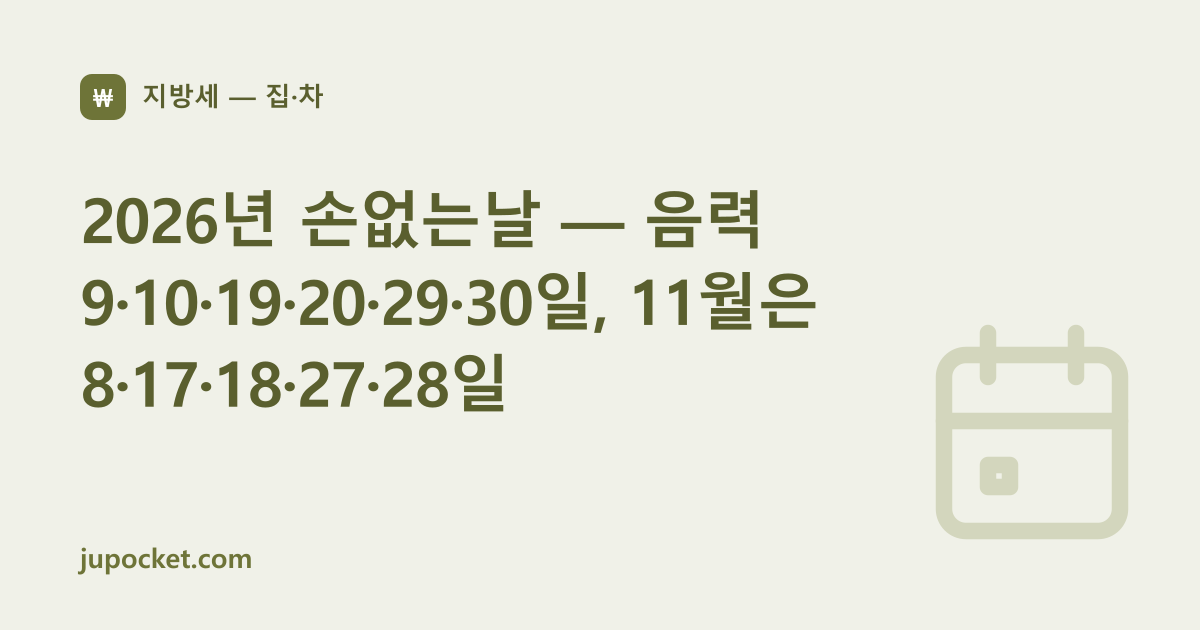
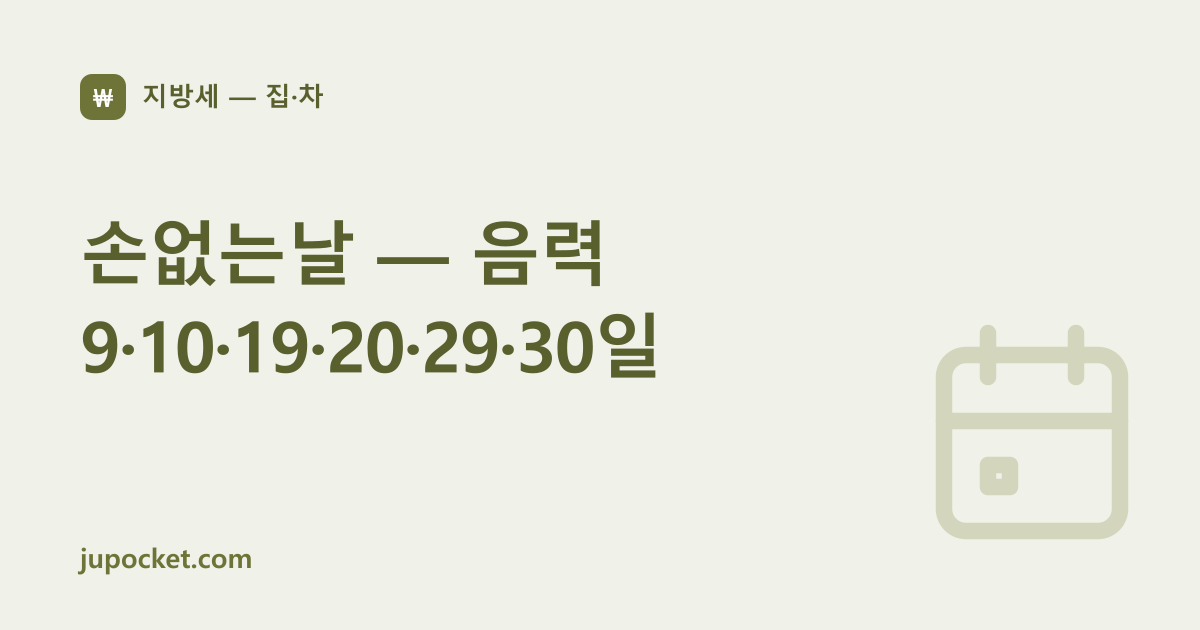
이사: 루트 주소 리다이렉트 4개, 손없는날 '끝자리 0' 문장 바로잡음, 클러스터 제목에서 연도 붙는 달별 날짜 뺌, 체크리스트 임대차 신고에 '신고 지역만'

Changed region(s): [[0.0617, 0.3016, 0.6783, 0.6635]]

diff --git a/src/data/clusters.ts b/src/data/clusters.ts
@@ -376,7 +376,7 @@ export const clusters: Cluster[] = [
       { href: "/guide/property-jongbu-double-tax/", title: "재산세 종부세 이중과세 — 종부세에서 같은 집 재산세 가운데 종부세 과세표준에 해당하는 몫을 뺍니다", kind: "guide", icon: "home", year: 2026 },
       { href: "/guide/holding-tax-calculator/", title: "보유세 계산기", kind: "calc", icon: "calculator", blurb: "주택별 공시가격 → 재산세·종부세·빼는 재산세액·한 해 보유세" },
       { href: "/guide/moving-checklist/", title: "이사 체크리스트 — 이사 전·이삿날·14일 안에 할 일", kind: "guide", icon: "checklist" },
-      { href: "/guide/moving-lucky-day/", title: "손없는날 — 음력 9·10·19·20·29·30일, 11월은 8·17·18·27·28일", kind: "guide", icon: "calendar", year: 2026 },
+      { href: "/guide/moving-lucky-day/", title: "손없는날 — 음력 9·10·19·20·29·30일", kind: "guide", icon: "calendar" },
       { href: "/guide/move-in-report/", title: "전입신고 확정일자 — 전입신고 14일, 확정일자는 기한 없음", kind: "guide", icon: "home" },
       { href: "/guide/packing-vs-half-packing/", title: "포장이사 반포장이사 차이 — 짐 양·시간·일손으로 고르기", kind: "guide", icon: "home" },
     ],
